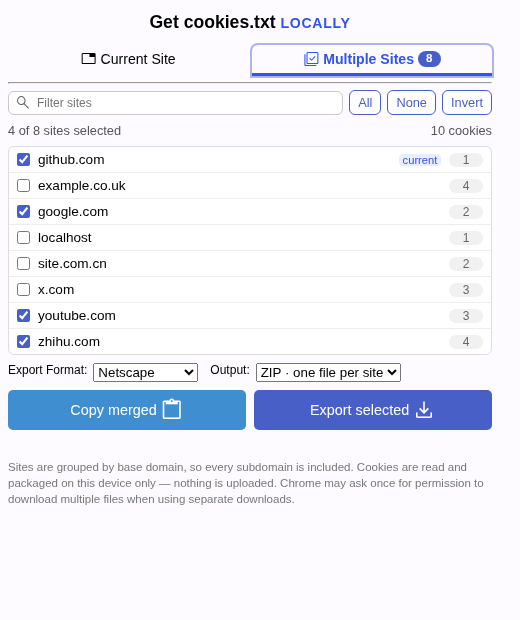
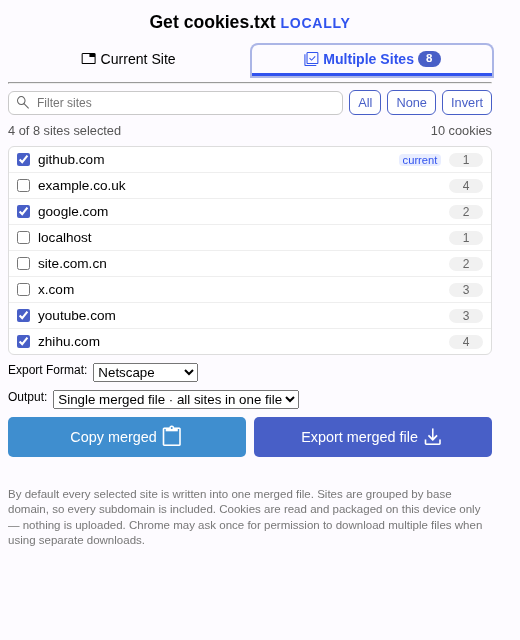
feat: export multiple sites into one merged file by default
- default batch output is a single cookies_all_*.txt containing all selected sites
- relabel output modes and make the export button reflect the chosen mode
- build script resolves the tag at HEAD, falling back to package.json
- bump version to 0.8.1

Changed region(s): [[0.0, 0.0306, 0.9538, 0.8581], [0.8923, 0.3677, 0.9231, 0.5516], [0.8923, 0.2758, 0.9231, 0.3065]]

diff --git a/src/popup.html b/src/popup.html
@@ -167,8 +167,8 @@
           <div class="mode-option option">
             <label for="batchMode">Output:</label>
             <select id="batchMode" name="batchMode">
-              <option value="zip" selected>ZIP · one file per site</option>
-              <option value="combined">Single merged file</option>
+              <option value="combined" selected>Single merged file · all sites in one file</option>
+              <option value="zip">ZIP · one file per site</option>
               <option value="separate">Separate downloads</option>
             </select>
           </div>
@@ -187,7 +187,7 @@
           </button>
           <button id="batchExport" class="export-btn export" disabled>
             <span class="button-text">
-              Export selected
+              <span id="batchExportLabel">Export merged file</span>
               <span class="material-symbols-outlined">download</span>
             </span>
           </button>
@@ -195,6 +195,7 @@
 
         <p id="batchStatus" class="batch-status" role="status"></p>
         <p class="batch-hint">
+          By default every selected site is written into one merged file.
           Sites are grouped by base domain, so every subdomain is included.
           Cookies are read and packaged on this device only — nothing is uploaded.
           Chrome may ask once for permission to download multiple files when using

diff --git a/scripts/build.js b/scripts/build.js
@@ -21,13 +21,22 @@ const options = program
  */
 const getVersion = () => {
   try {
-    return execSync('git describe --tags', { cwd: ROOT, stdio: 'pipe' })
+    // Prefer a tag pointing exactly at HEAD; "git describe" would append
+    // "-<n>-g<sha>" for commits after the last tag.
+    const tags = execSync('git tag --points-at HEAD', {
+      cwd: ROOT,
+      stdio: 'pipe',
+    })
       .toString()
-      .trim();
+      .trim()
+      .split('\n')
+      .filter(Boolean);
+    if (tags.length) return tags[0];
   } catch {
-    const pkg = JSON.parse(fs.readFileSync(path.join(ROOT, 'package.json')));
-    return `v${pkg.version}`;
+    // git may be unavailable in a source archive, fall through to package.json
   }
+  const pkg = JSON.parse(fs.readFileSync(path.join(ROOT, 'package.json')));
+  return `v${pkg.version}`;
 };
 
 const build = async (version) => {

diff --git a/README.md b/README.md
@@ -19,8 +19,8 @@ anywhere in the extension.
 | List all sites that have cookies | — | ✅ grouped by registrable domain |
 | Select many sites and export together | — | ✅ |
 | Search / select all / invert selection | — | ✅ |
-| Output as one merged file | — | ✅ |
-| Output as a ZIP with one file per site | — | ✅ zero-dependency ZIP writer |
+| Output as one merged file | — | ✅ default |
+| Output as a ZIP with one file per site | — | ✅ |
 | Output as separate downloads | — | ✅ |
 | Remember the last selection | — | ✅ |
 
@@ -67,12 +67,13 @@ The **Current Site** tab behaves exactly like upstream: it shows the cookies of 
    cookie count and a `current` badge for the active site.
 2. Pick sites individually, or use **All / None / Invert** together with the filter box.
 3. Choose the format and the output mode:
-   - **ZIP · one file per site** — `cookies_<n>sites_<yyyymmdd>.zip` containing one `<site>_cookies_<yyyymmdd>.<ext>` per
-     site plus a `_sites.txt` index.
-   - **Single merged file** — `cookies_all_<n>sites_<yyyymmdd>.<ext>`; the Netscape variant keeps a comment header per
-     site, so it stays valid for `wget`, `curl` and `MozillaCookieJar`.
+   - **Single merged file (default)** — `cookies_all_<n>sites_<yyyymmdd>.<ext>`: every selected site goes into **one
+     file**. With the Netscape format this is a single `cookies.txt` with one comment header per site, still valid for
+     `wget`, `curl` and `MozillaCookieJar`.
+   - **ZIP · one file per site** — `cookies_<n>sites_<yyyymmdd>.zip` containing one `<site>_cookies_<yyyymmdd>.<ext>`
+     per site plus a `_sites.txt` index.
    - **Separate downloads** — one download per site.
-4. Press **Export selected**, or **Copy merged** to put the merged text on the clipboard.
+4. Press **Export merged file**, or **Copy merged** to put the merged text on the clipboard.
 
 The selection is stored in `localStorage`, so reopening the popup keeps your previous choice.
 

diff --git a/README.zh-CN.md b/README.zh-CN.md
@@ -16,7 +16,7 @@
 | 列出所有存有 cookie 的网站 | — | ✅ 按基础域名聚合 |
 | 勾选多个网站一起导出 | — | ✅ |
 | 搜索 / 全选 / 反选 | — | ✅ |
-| 合并为一个文件 | — | ✅ |
+| 合并为一个文件 | — | ✅ 默认 |
 | 每站一个文件并打包 ZIP | — | ✅ 零依赖 ZIP 写入器 |
 | 逐站分别下载 | — | ✅ |
 | 记住上次勾选 | — | ✅ |
@@ -63,12 +63,13 @@ npm run build:firefox
    当前标签页对应的站点会带 `current` 标记。
 2. 用复选框逐个选择，或用 **All / None / Invert** 配合上方过滤框批量操作。
 3. 选择格式与输出方式：
+   - **Single merged file（默认）** —— 生成 `cookies_all_<站点数>sites_<日期>.<扩展名>`：所有勾选站点写进**同一个
+     文件**。Netscape 格式下就是一个 `cookies.txt`，按站点插入注释头，`wget`、`curl`、Python
+     `MozillaCookieJar` 都能正常解析。
    - **ZIP · one file per site** —— 生成 `cookies_<站点数>sites_<日期>.zip`，内含每个站点一个
      `<站点>_cookies_<日期>.<扩展名>`，另附 `_sites.txt` 清单。
-   - **Single merged file** —— 生成 `cookies_all_<站点数>sites_<日期>.<扩展名>`；Netscape 格式会按站点插入注释头，
-     `wget`、`curl`、Python `MozillaCookieJar` 都能正常解析。
    - **Separate downloads** —— 每个站点单独下载一个文件。
-4. 点击 **Export selected**，或 **Copy merged** 把合并后的文本复制到剪贴板。
+4. 点击 **Export merged file**，或 **Copy merged** 把合并后的文本复制到剪贴板。
 
 勾选结果保存在 `localStorage`，下次打开插件时自动恢复。
 
